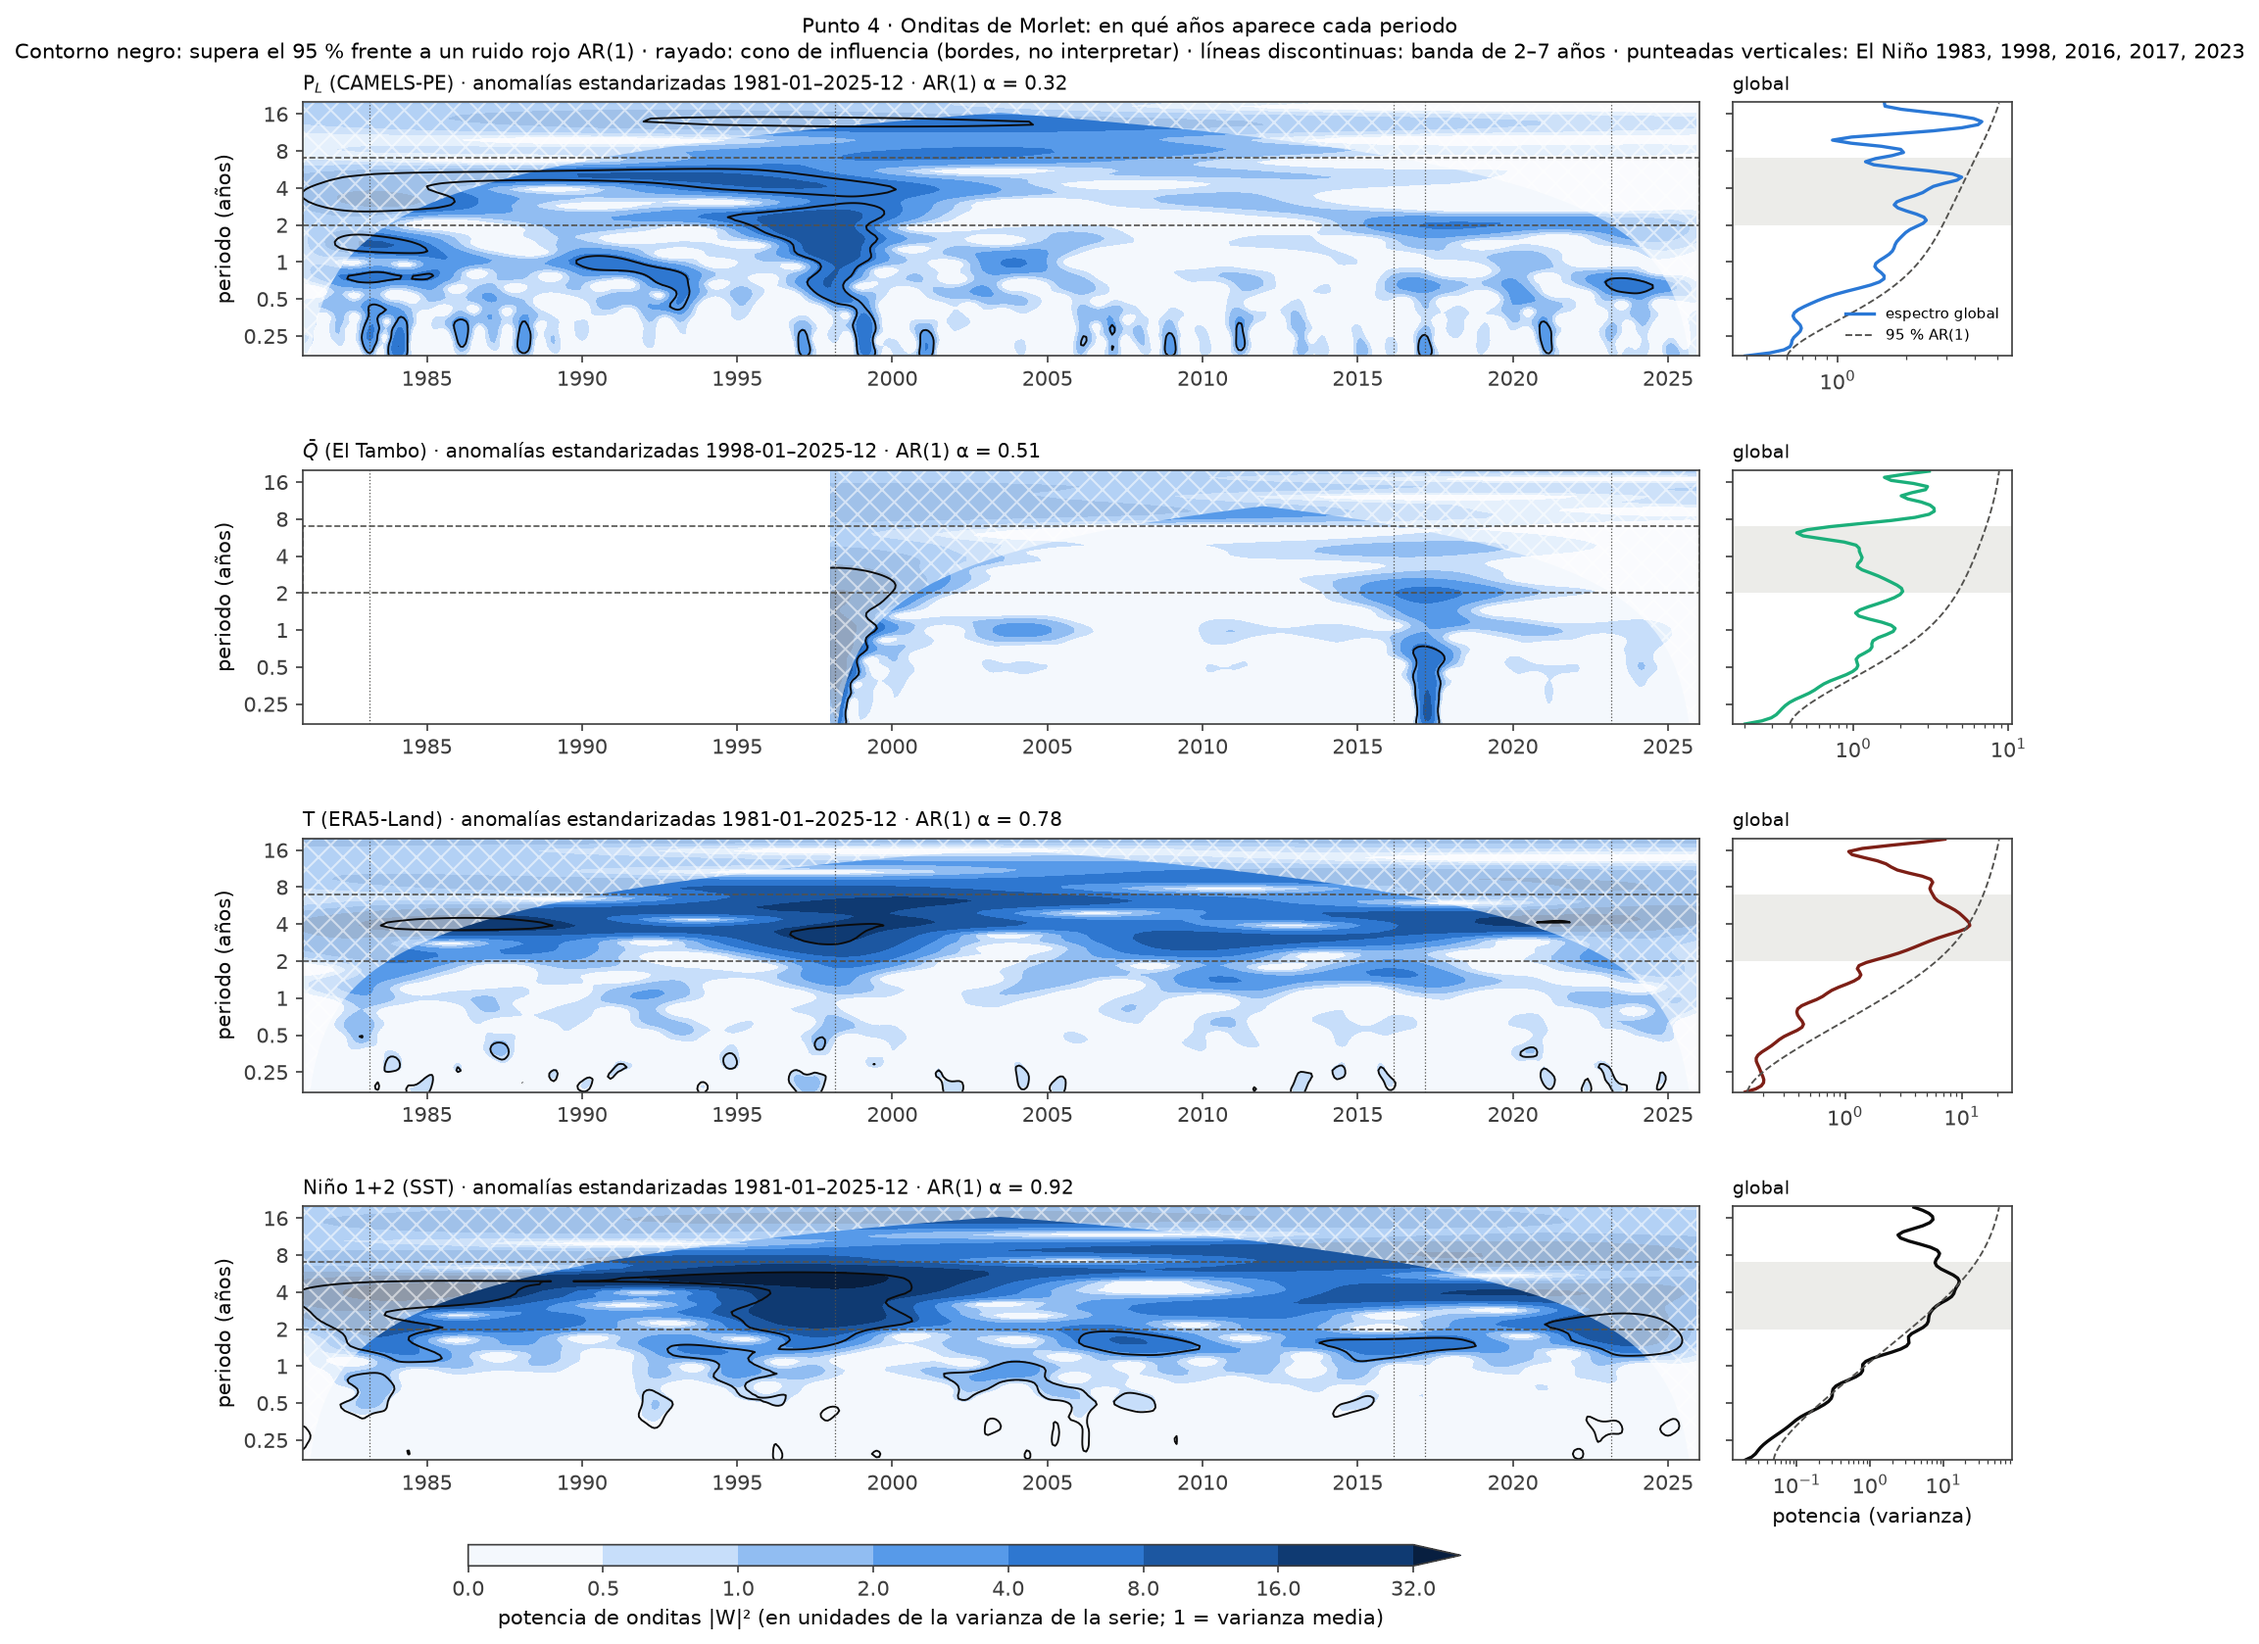
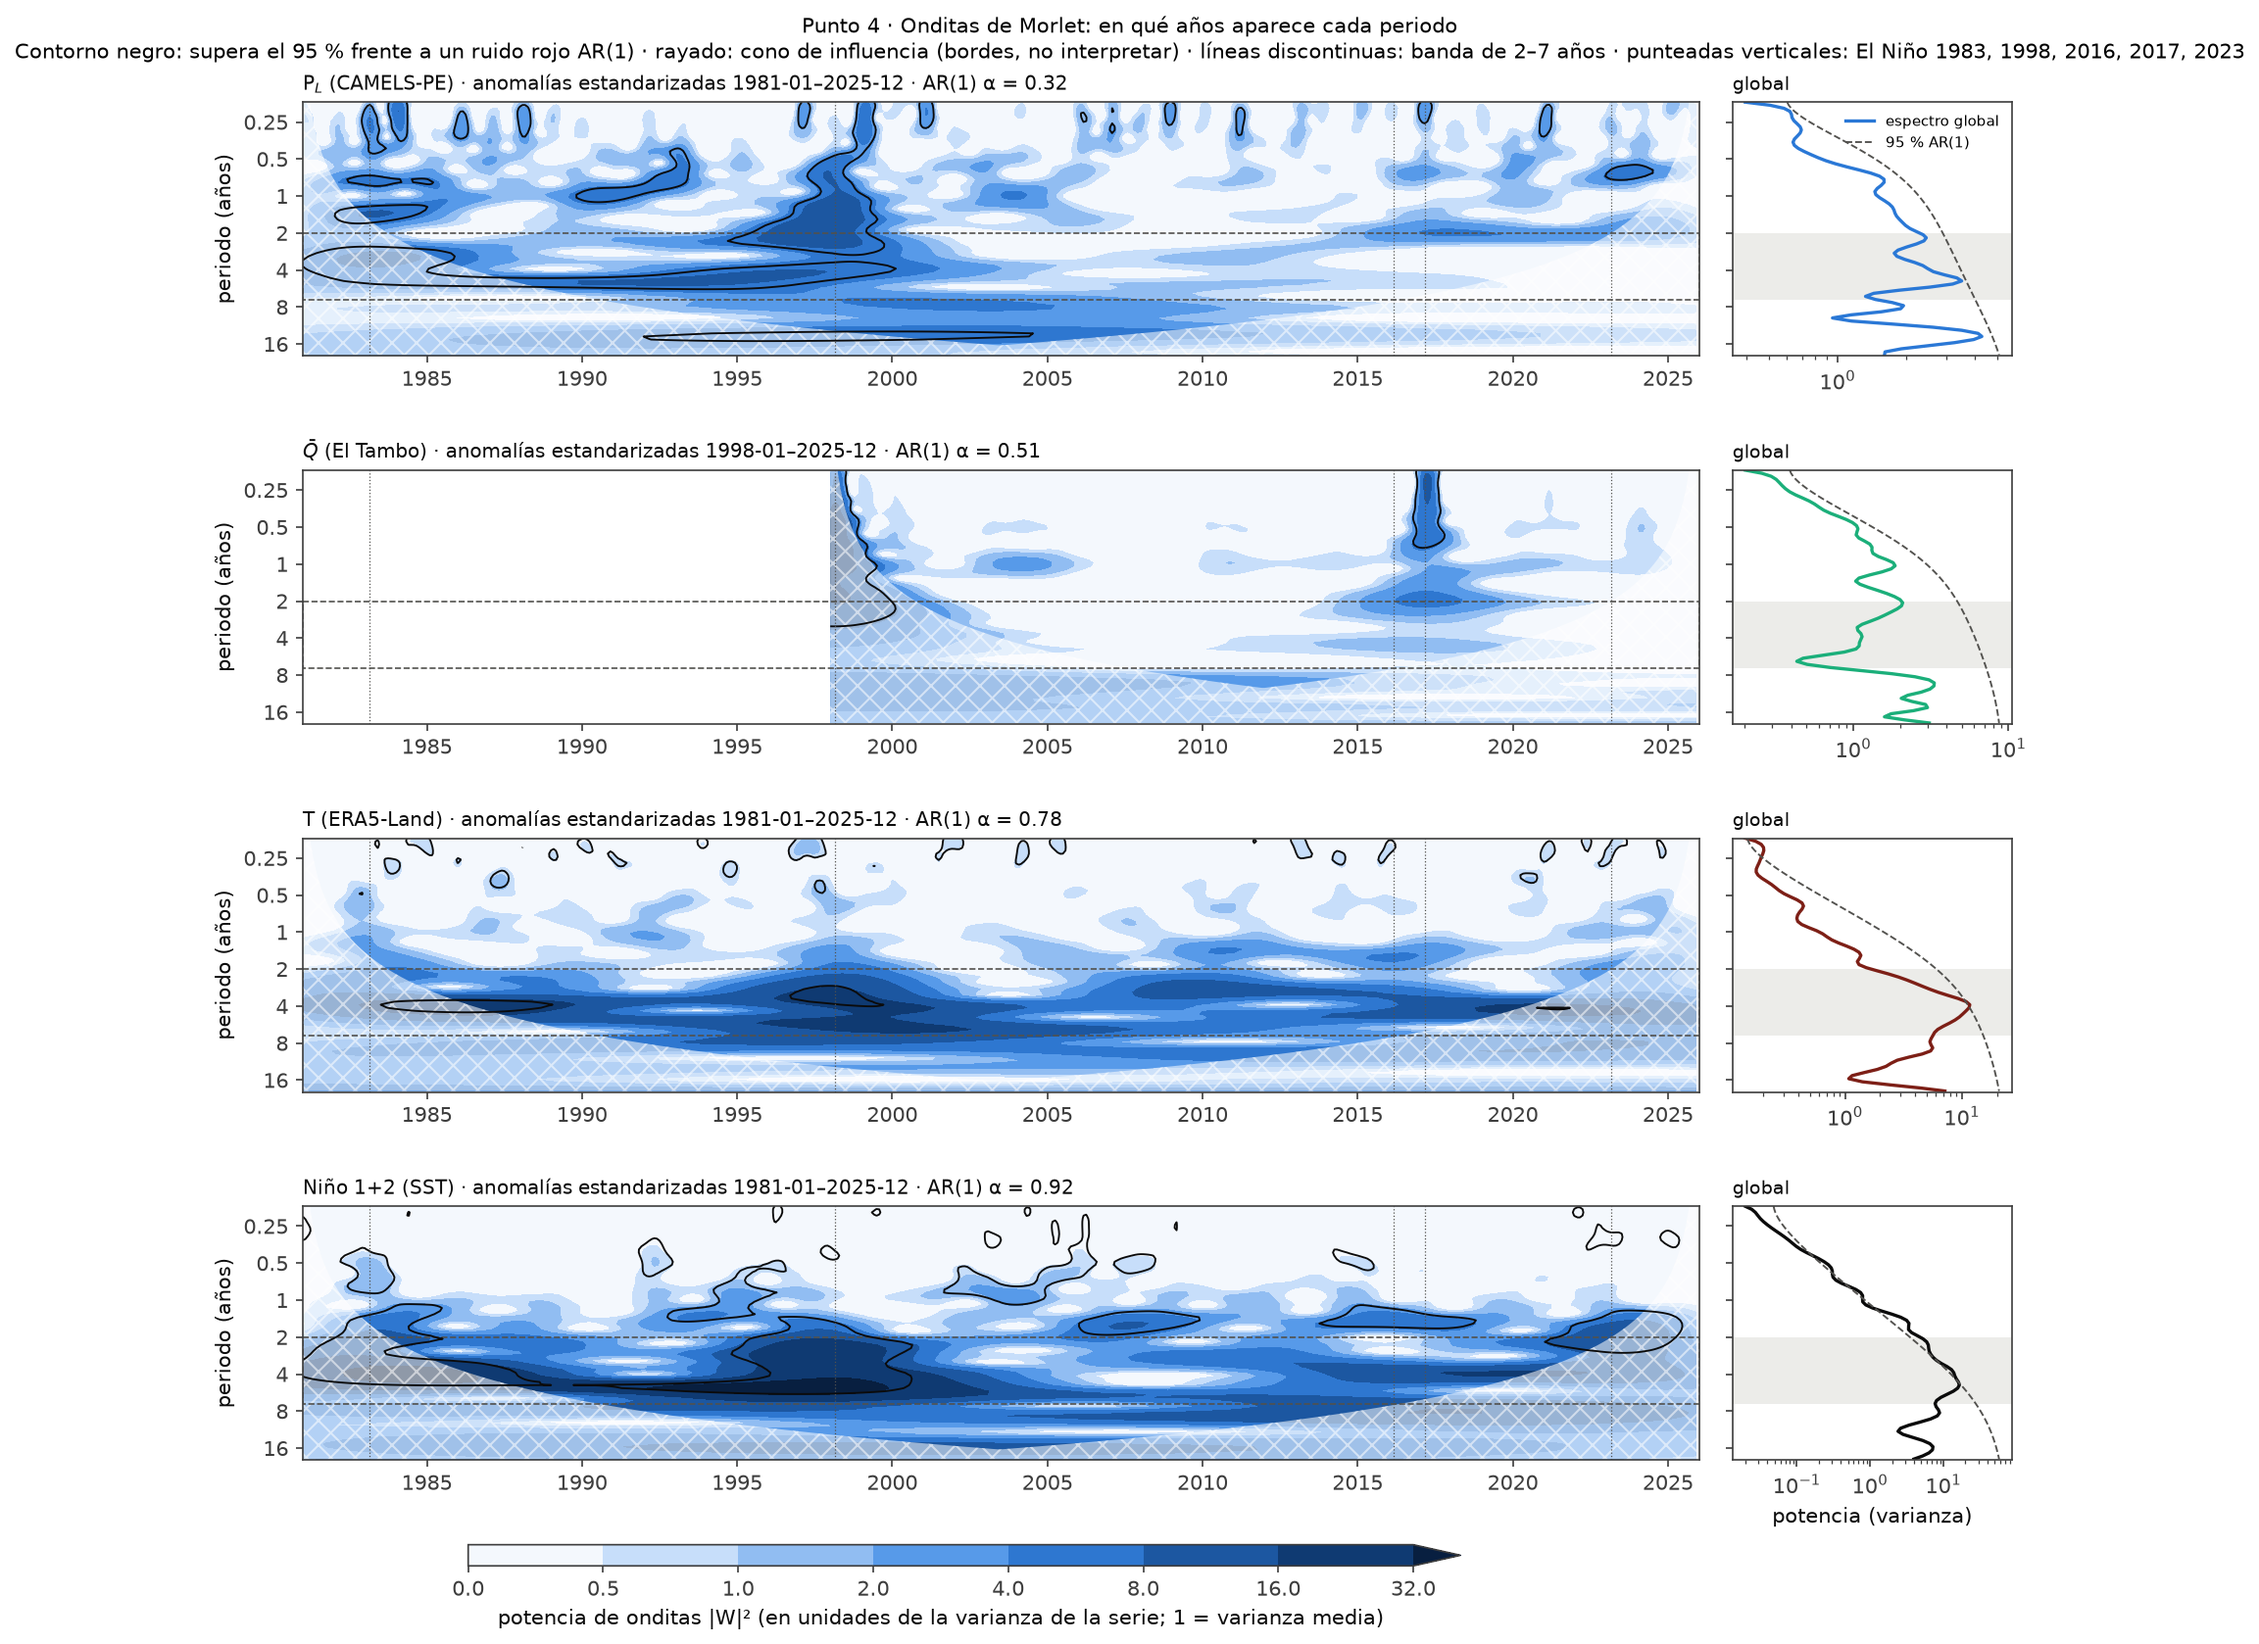
Onditas: periodos cortos arriba, como Torrence y Compo
Eje vertical del escalograma invertido (0.25 años arriba, 16 abajo), con el
cono de influencia en la parte inferior; leyenda del espectro global movida.

diff --git a/Hidrologiat1/Codigos/38_onditas_4.py b/Hidrologiat1/Codigos/38_onditas_4.py
@@ -158,7 +158,7 @@ for i, k in enumerate(ORDEN):
         ax.axvline(pd.Timestamp(y, 3, 1), color=TINTA2, lw=0.6, ls=":")
     ax.set_yscale("log", base=2)
     ax.set_yticks([0.25, 0.5, 1, 2, 4, 8, 16], ["0.25", "0.5", "1", "2", "4", "8", "16"])
-    ax.set_ylim(P.min(), 20)
+    ax.set_ylim(20, P.min())                                     # periodos cortos arriba (como Torrence y Compo 1998)
     ax.set_xlim(*xlim)
     ax.set_ylabel("periodo (años)")
     ax.set_title(f"{d['nom']} · anomalías estandarizadas {T[0]:%Y-%m}–{T[-1]:%Y-%m} · AR(1) α = {d['alfa']:.2f}",
@@ -171,10 +171,10 @@ for i, k in enumerate(ORDEN):
     g.xaxis.set_major_locator(matplotlib.ticker.LogLocator(base=10, numticks=4))
     g.xaxis.set_minor_formatter(matplotlib.ticker.NullFormatter())
     g.tick_params(labelleft=False)
-    ax.set_ylim(P.min(), 20)                                     # el panel global comparte el eje: fijarlo al final
+    ax.set_ylim(20, P.min())                                     # periodos cortos arriba (como Torrence y Compo 1998)                                     # el panel global comparte el eje: fijarlo al final
     g.set_title("global", fontsize=9, loc="left")
     if i == 0:
-        g.legend(fontsize=7, frameon=False, loc="lower right")
+        g.legend(fontsize=7, frameon=False, loc="upper right")
     if i == len(ORDEN) - 1:
         g.set_xlabel("potencia (varianza)")
 cax = fig.add_axes([0.2, 0.06, 0.45, 0.012])
